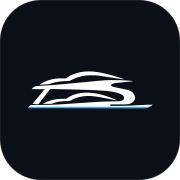
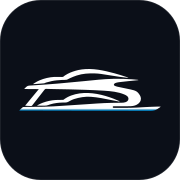
Draw the lockups at the size they reserve; keep the route line whole
The masters ship with a great deal of padding — the horizontal lockup is
54.5% empty vertically — so the header's 40px box was drawing an 18px logo,
smaller than the nav text beside it, and the footer's 46px box a 21px one.
brand.mjs now re-frames each lockup onto its own alpha bounding box, measured
by rendering and trimming rather than assumed, plus a 3% optical margin. No
path or transform is touched; only the viewBox moves. A CSS size now means the
size of the artwork. The square icon is built from the re-framed symbol too,
so the tile's padding is no longer applied twice.

Size a lockup on the axis its placement constrains and let the other follow:
the header bar constrains height, the footer's grid column constrains width.
Mark no longer presets w-auto, because a base-class width silently beats a
caller's and the SVG then draws inside its box instead of filling it.

At the new size five nav labels, the quote button and a 323px lockup no
longer fit a 932px bar, so the inline nav moves from lg to xl. That collision
predated the lockup change — at 1024 "About" already sat on the quote button;
a smaller logo was hiding it. Below xl the full-screen index takes over.

Apply's rail loses the painted hand-off gap. It was deliberate, marking where
the route leaves Solidify's systems, but it read as a broken line and was
reported as a defect twice; the hand-off is carried by the stage labels
instead.
[…]

Changed region(s): [[0.1111, 0.3611, 0.8889, 0.6389]]

diff --git a/components/operators/Apply.tsx b/components/operators/Apply.tsx
@@ -15,7 +15,7 @@ const holderLine = INSURANCE.certificateHolder.join(", ");
 type Stage = {
   title: string;
   text: string;
-  /** Whose systems the stage happens on. The break in the line marks the change. */
+  /** Whose systems the stage happens on. Shown by the card label and tint. */
   where: "solidify" | "portal";
 };
 
@@ -23,12 +23,15 @@ type Stage = {
  * The owner-operator application route — the signature interaction of
  * /owner-operators, and the only place on this site that leaves the domain.
  *
- * Seven stages on one pinned horizontal rail. A line advances stage to stage
- * as you scroll and each node lights as the line reaches it. Between stage 03
- * and stage 04 the line leaves Solidify's ground: it breaks, the card surface
- * changes, and it picks up again at stage 06. That break is the whole point —
- * the application itself is completed somewhere else, and the visitor should
- * see that before they get there rather than after.
+ * Five stages on one pinned horizontal rail. A CONTINUOUS line advances stage
+ * to stage as you scroll and each node lights as the line reaches it.
+ *
+ * The rail used to carry a painted gap between stages 03 and 05 to mark where
+ * the work leaves Solidify's systems. Do not put it back: it read as a broken
+ * line rather than as a deliberate break, and it was reported as a defect
+ * twice. The hand-off is carried instead by the SOLIDIFY / DRIVER PORTAL label
+ * on each card and by the tinted surface on the portal ones, which is where a
+ * reader looks for that information anyway.
  *
  * Scroll budget is deliberate: SETTLE px of travel per stage, plus a landing
  * allowance, and a snap that lands on stage centres. An earlier version
@@ -46,7 +49,7 @@ const STAGES: readonly Stage[] = [
   { title: "Approved and running", text: "Once you are approved, Solidify picks it up with you directly — the agreement, the paperwork and your first dispatch.", where: "solidify" },
 ];
 
-/** The line leaves Solidify's ground after stage 03 and returns at stage 05. */
+/** Stage 03 is the one that leaves for the portal; it carries the link. */
 const HANDOFF = 2;
 /** Scroll travel per stage, in px, on top of the horizontal distance. */
 const SETTLE = 210;
@@ -146,7 +149,7 @@ export function ApplicationRoute() {
             </div>
             <Reveal className="lg:col-span-5 lg:justify-self-end">
               <p className="lead lg:max-w-[38ch]">
-                Three of them are Solidify&apos;s. The application itself is completed on an external driver application portal — the break in the line is where that happens.
+                Three of them are Solidify&apos;s. The application itself is completed on an external driver application portal, which opens in a new tab.
               </p>
             </Reveal>
           </div>
@@ -210,12 +213,6 @@ export function ApplicationRoute() {
               data-route-head
               className="absolute top-1/2 h-[7px] w-[7px] -translate-x-1/2 -translate-y-1/2 rounded-full bg-[#dbe9ff] shadow-[0_0_16px_4px_rgba(127,182,255,0.55)]"
               style={{ left: "0%" }}
-            />
-            {/* the hand-off gap, painted over the rail */}
-            <span
-              aria-hidden
-              className="absolute top-1/2 h-[3px] -translate-y-1/2 bg-[var(--surface)]"
-              style={{ left: `${pct(HANDOFF + 0.35)}%`, width: `${pct(0.3)}%` }}
             />
             {STAGES.map((s, i) => (
               <span

diff --git a/components/layout/Mark.tsx b/components/layout/Mark.tsx
@@ -14,18 +14,32 @@ import clsx from "clsx";
  * and the files carry a `<pattern id="railTrim">` — inlining two lockups on
  * one page would collide those ids and the rail would take the wrong fill.
  *
- * Intrinsic width/height are the masters' own, so the aspect is reserved
- * before the SVG loads and nothing shifts. Size with a height class and leave
- * the width to `w-auto`.
+ * Size it on ONE axis and let the other follow. Which axis depends on what
+ * constrains the placement: the header bar constrains height, so it sets
+ * `h-… w-auto`; the footer's grid column constrains width, so it sets
+ * `w-full max-w-…`. Nothing here presets an axis, because a `w-auto` in the
+ * base class collides with a caller's `w-full` and which one wins is then down
+ * to stylesheet order rather than intent — and when width loses, the SVG
+ * letterboxes inside its box and the artwork shrinks again.
+ *
+ * The height, where it is used, is the height of the
+ * height of the ARTWORK, because brand.mjs re-frames each master onto its own
+ * bounding box. The masters ship with a great deal of padding — the horizontal
+ * lockup is 54.5% empty vertically — so before that re-framing a 40px box drew
+ * an 18px logo, and the header mark read as smaller than the nav beside it.
+ *
+ * The numbers below are the re-framed viewBoxes, printed by brand.mjs. They are
+ * here so the aspect is reserved before the SVG loads and nothing shifts; if
+ * the masters are ever reinstalled, re-run the script and copy them across.
  */
 
 const LOCKUPS = {
-  /** symbol + wordmark on one row — the header and footer lockup. 5.10:1 */
-  horizontal: { src: "/brand/solidify-horizontal.svg", w: 1837, h: 360 },
-  /** symbol over wordmark. 1.94:1 */
-  stacked: { src: "/brand/solidify-stacked.svg", w: 1609, h: 831 },
-  /** the symbol alone. 2.69:1 — it is NOT square, so it cannot go in a square box. */
-  symbol: { src: "/brand/solidify-symbol.svg", w: 1440, h: 536 },
+  /** symbol + wordmark on one row — the header and footer lockup. 9.48:1 */
+  horizontal: { src: "/brand/solidify-horizontal.svg", w: 1650, h: 174 },
+  /** symbol over wordmark. 2.12:1 */
+  stacked: { src: "/brand/solidify-stacked.svg", w: 1476, h: 698 },
+  /** the symbol alone. 3.23:1 — it is NOT square, so it cannot go in a square box. */
+  symbol: { src: "/brand/solidify-symbol.svg", w: 1308, h: 405 },
 } as const;
 
 export type LogoVariant = keyof typeof LOCKUPS;
@@ -56,7 +70,7 @@ export function Logo({
       decoding="async"
       loading={priority ? "eager" : "lazy"}
       fetchPriority={priority ? "high" : "auto"}
-      className={clsx("block w-auto", className)}
+      className={clsx("block", className)}
     />
   );
 }

diff --git a/components/layout/Header.tsx b/components/layout/Header.tsx
@@ -171,11 +171,21 @@ export function Header() {
           style={{ height: "var(--nav-h)" }}
           data-nav-bar
         >
-          <Link href="/" aria-label={`${COMPANY.name} — home`} className="relative z-10 flex items-center">
-            <Logo variant="horizontal" priority className="h-[34px] lg:h-[40px]" />
+          <Link href="/" aria-label={`${COMPANY.name} — home`} className="relative z-10 flex shrink-0 items-center">
+            <Logo variant="horizontal" priority className="h-[26px] w-auto md:h-[30px] xl:h-[34px]" />
           </Link>
 
-          <nav aria-label="Primary" className="hidden lg:block">
+          {/* The inline nav needs 1280, not 1024.
+
+              Five labels measure ~575px, the quote button ~117px and the
+              lockup ~323px: 1015px of content, which needs roughly 1130px of
+              bar before the gaps read as gaps. At 1024 the bar is 932px, so
+              "About" sat hard against the quote button and the wordmark ran
+              into "Car Shipping" — a collision that predates the lockup
+              change and that a smaller logo only hid. Below xl the full-screen
+              index takes over, which is a better answer at that width than
+              five cramped labels. */}
+          <nav aria-label="Primary" className="hidden xl:block">
             <ul role="list" className="flex items-center gap-[clamp(1.05rem,1.7vw,2.1rem)]">
               {NAV.map((item) => (
                 <li key={item.href}>
@@ -196,7 +206,7 @@ export function Header() {
               onClick={() => setOpen((o) => !o)}
               aria-expanded={open}
               aria-controls="nav-panel"
-              className="relative z-10 flex h-11 w-11 items-center justify-center rounded-md border border-[var(--line-strong)] transition-colors hover:border-[rgba(127,182,255,0.7)] lg:hidden"
+              className="relative z-10 flex h-11 w-11 items-center justify-center rounded-md border border-[var(--line-strong)] transition-colors hover:border-[rgba(127,182,255,0.7)] xl:hidden"
             >
               <span className="sr-only">{open ? "Close menu" : "Open menu"}</span>
               <span aria-hidden className="relative block h-[10px] w-[20px]">

diff --git a/components/layout/Closing.tsx b/components/layout/Closing.tsx
@@ -125,7 +125,7 @@ export function Closing({
           <div className="grid gap-10 md:grid-cols-2 lg:grid-cols-[1.35fr_0.85fr_0.95fr_0.8fr_1.25fr] lg:gap-8">
             <div className="flex flex-col gap-6">
               <Link href="/" className="flex w-fit items-center" aria-label={`${COMPANY.name} — home`}>
-                <Logo variant="horizontal" className="h-[46px]" />
+                <Logo variant="horizontal" className="w-full max-w-[288px]" />
               </Link>
               <p className="max-w-[34ch] text-[var(--step--1)] leading-relaxed text-[var(--text-mid)]">
                 {COMPANY.descriptor}. {CLAIMS.coverage}, with a strong Western-US focus.

diff --git a/README.md b/README.md
@@ -91,9 +91,18 @@ identical.
 The lockups are the client's approved vector masters in
 `Solidify_Final_Blue_Assets`, installed by `node scripts/brand.mjs` into
 `public/brand/` plus `app/icon.svg` and `app/apple-icon.png`. **The artwork is
-never edited** — the lockups are copied byte-for-byte, and the icon only wraps
-the symbol's own markup in a square ground, because a favicon has to be square
-and the symbol is 2.7:1.
+never edited** — every path and transform is carried across untouched. What the
+script does change is the **viewBox**, which is a window onto them, not a
+modification of them.
+
+That re-framing is the point of the script. The masters carry a great deal of
+padding: the horizontal lockup is 54.5% empty vertically, so a 40px box drew an
+18px logo and the header mark read as smaller than the nav beside it. Each
+lockup is re-framed onto its own alpha bounding box (measured by rendering and
+trimming with `sharp`, because the files nest several groups and a `<pattern>`
+and reading the geometry back out is guesswork) plus a 3% optical margin. A CSS
+size then means the size of the artwork. Re-running the script prints the new
+intrinsic dimensions to paste into `Mark.tsx`.
 
 The DARK variants are the ones shipped: white artwork with the #147EB3 accent
 on the lower carrier rail. The Light variants are black artwork for light
@@ -103,9 +112,21 @@ pair and switch on the surface rather than recolouring these.
 `components/layout/Mark.tsx` serves them as `<img>`, not inline SVG: the
 horizontal lockup is ~13 KB of path data that would otherwise ship in every
 page's HTML, and the files carry a `<pattern id="railTrim">` that would collide
-if two lockups were inlined on one page. Intrinsic width/height come from the
-masters, so nothing shifts while they load — size with a height class and leave
-the width to `w-auto`.
+if two lockups were inlined on one page. Intrinsic width/height are the
+re-framed ones, so nothing shifts while they load.
+
+**Size a lockup on the axis its placement constrains, and let the other
+follow.** The header bar constrains height, so it sets `h-… w-auto`; the
+footer's grid column constrains width, so it sets `w-full max-w-…`. Getting
+this backwards does not overflow — the SVG letterboxes inside its box and the
+artwork silently shrinks again, which is the original defect. `npm run
+glitches` asserts every `/brand/` image draws at its own aspect ratio.
+
+The horizontal lockup is 9.5:1, so it takes real width: 323px at the header's
+34px. Five nav labels, the quote button and that lockup need about 1130px of
+bar, which is why the inline nav is `xl:` (1280) rather than `lg:` — below that
+the full-screen index takes over. `npm run glitches` also asserts the nav bar's
+items keep a gap at every viewport.
 
 ### WebGL
 
